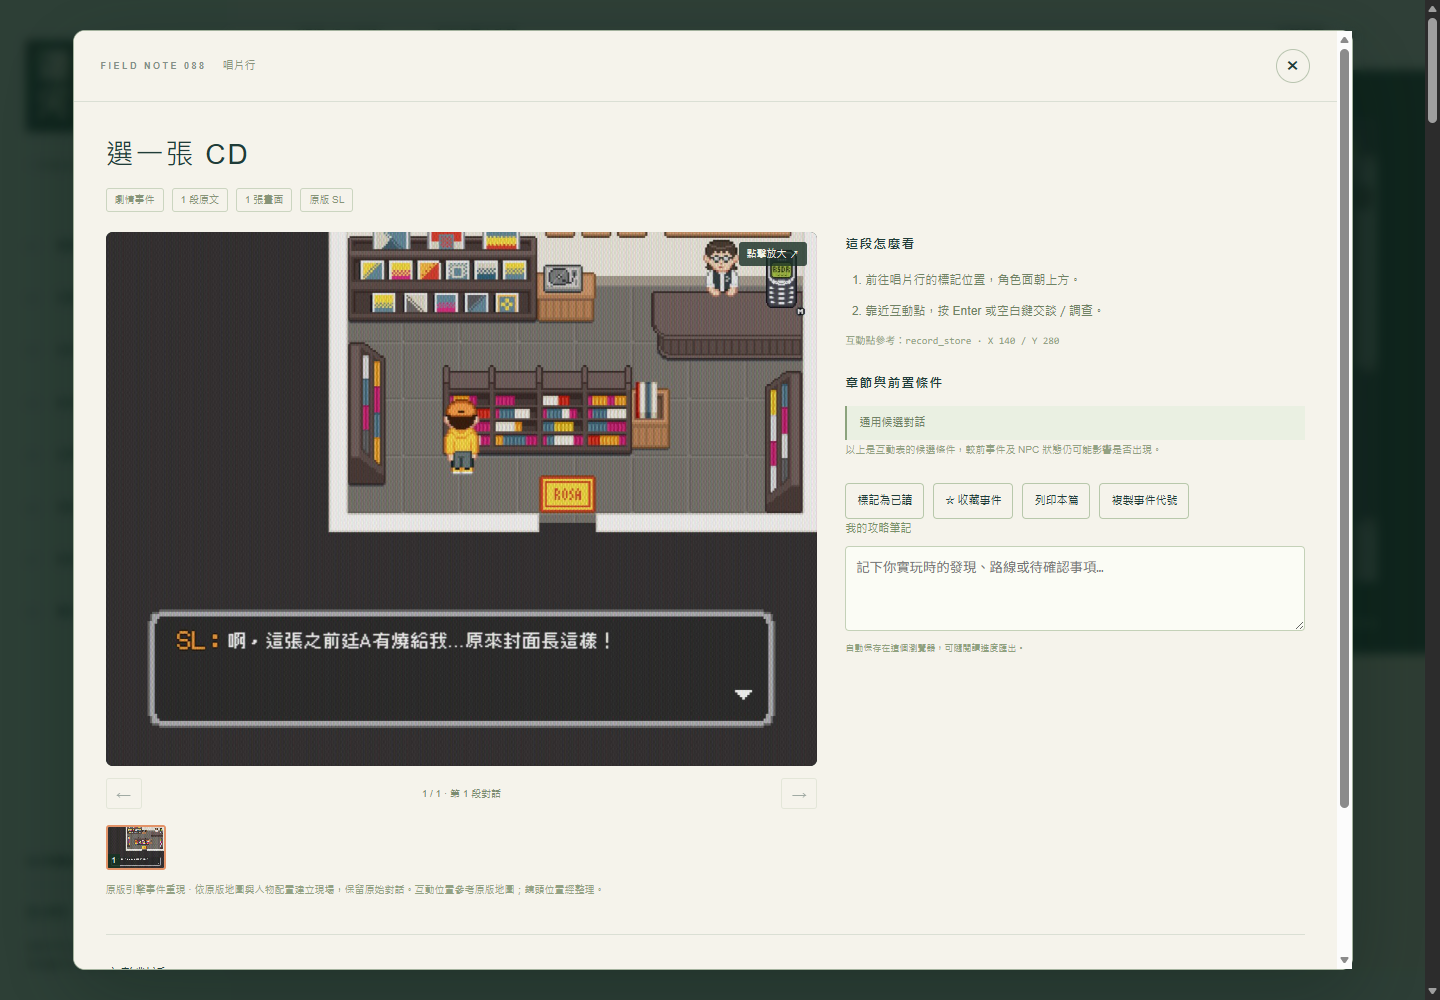
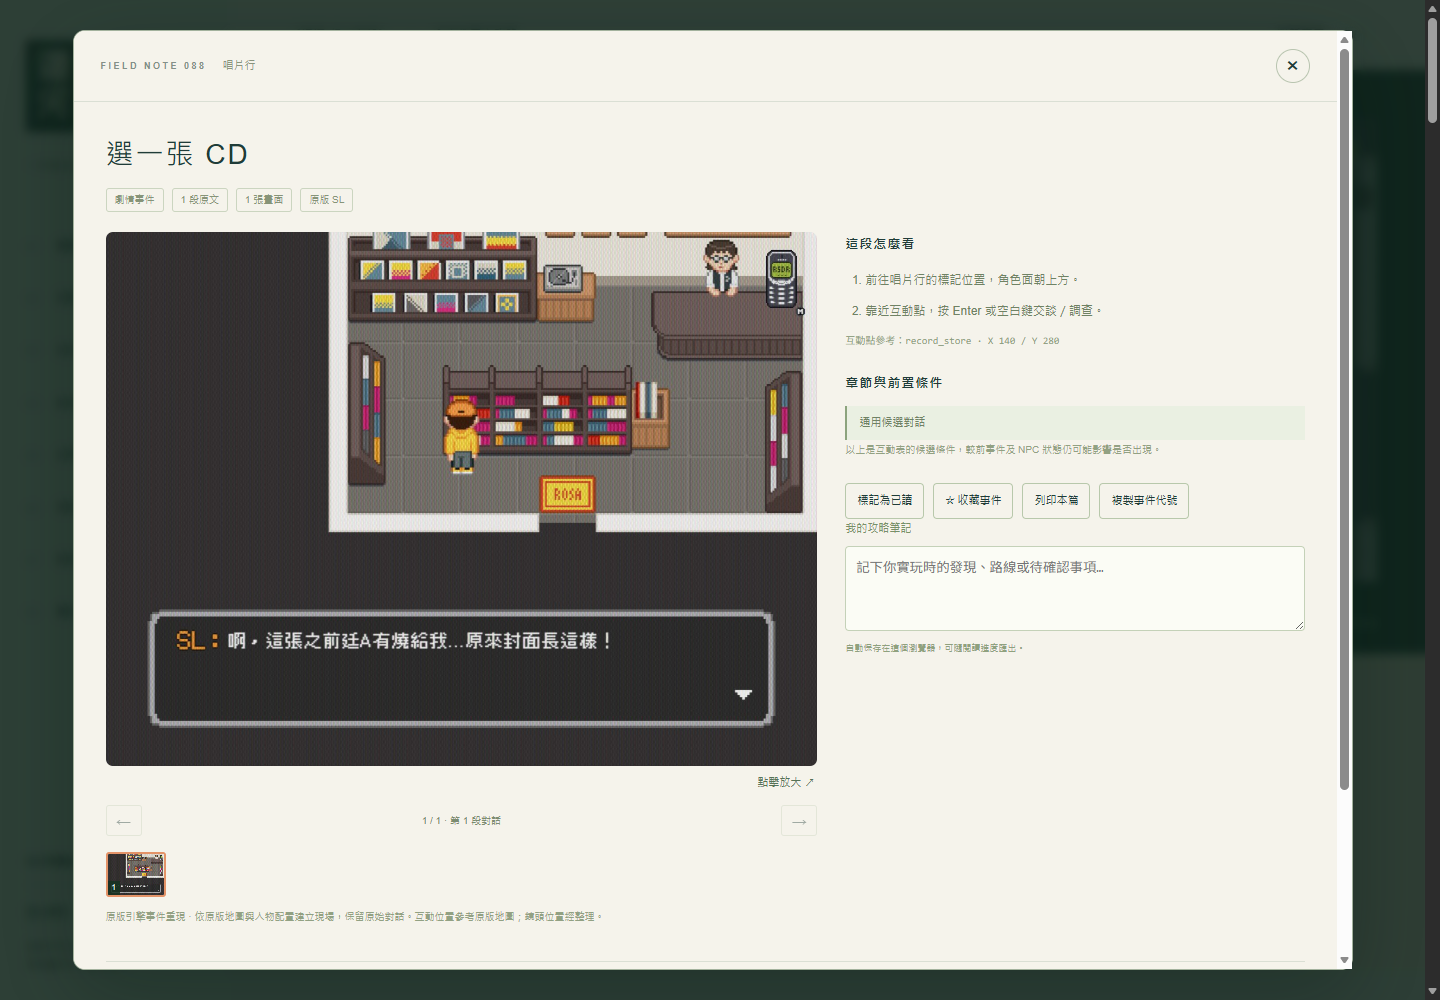
Verify unobstructed phone HUD on desktop and mobile

diff --git a/DEPLOYMENT_STATUS.md b/DEPLOYMENT_STATUS.md
@@ -181,3 +181,5 @@ R2新增702個物件，32個沿用，全部734個物件的大小、MD5 ETag、Co
 19張正式Worker圖片的實際內容雜湊與格式核對通過；正式站搜尋Gina、重整／舊深連結、櫃檯入口、390px、542项圖庫與11張照片回歸通過。報告 verification/phone-live-images.json、phone-general-live-checks.json、phone-recapture.json、phone-source-evidence.json。本機校對頁 research/phone-recapture/index.html；兩份ZIP已重建並逐檔校驗。
 
 正式站全部734張圖片版本對照一致；15組指定場景×1440/390px共30次原尺寸載入、無溢出檢查通過，並目視確認CD架桌面與橋邊夜景手機版。報告verification/phone-live-site.json，截圖phone-live-1440.png、phone-live-390.png。
+
+最終目視校對發現原「點擊放大」浮標會遮住新手機，已移到圖片下方且維持整張可點擊。CSS版本20260910-phone2；最終內容commit `8e81224db8ee5e9d9e90161a2064c35b53743165`，Pages成功流程 https://github.com/wackyjazz/softlipa_canal/actions/runs/34447814673 。更新後全部734個正式圖片版本、15事件×桌面/手機共30次載入與提示不覆蓋畫面檢查通過；原尺寸目視確認手機完整可見。驗收需停用測試瀏覽器舊HTML快取。ZIP已再次重建並校驗，含新的圖片外放大提示。
